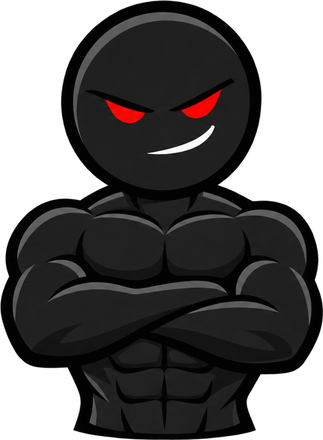
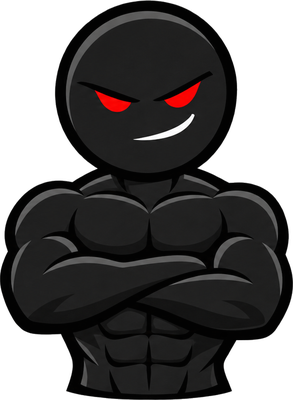
LIFT 1.5.5: shorter mascot card, remove faint box around the image
Claude-Session: https://claude.ai/code/session_013y13kYL9t9U9gpArUo5B3B

diff --git a/styles.css b/styles.css
@@ -709,3 +709,9 @@ button.row-card, .row-btn.row-card { padding: 13px 16px; }
 }
 .mascot-img { max-width: none; aspect-ratio: 320 / 440; flex: none; }
 .mascot-img { width: 128px; height: 176px; } .mascot { width: 128px; }
+
+/* shorter mascot, and no drop-shadow filter (it exposed the faint rectangle in the image) */
+.hero { min-height: 128px; padding-top: 12px; }
+.mascot-img { height: 132px; width: 96px; filter: none; }
+.mascot { width: 96px; }
+.hero-text { padding-bottom: 14px; }

diff --git a/sw.js b/sw.js
@@ -1,5 +1,5 @@
 // Offline app shell. Cache-first for the app's own files; never touches the network for anything else.
-const CACHE = 'gymlog-v1.5.4';
+const CACHE = 'gymlog-v1.5.5';
 const FILES = [
   './', 'index.html', 'styles.css', 'manifest.webmanifest',
   'app.js', 'art.js', 'calc.js', 'charts.js', 'backup.js', 'notes.js', 'crypto.js', 'db.js', 'nav.js', 'picker.js', 'store.js',

diff --git a/art.js b/art.js
@@ -117,7 +117,7 @@ export function mascotArt() {
     img.className = 'mascot-img mascot-' + mode;
     img.src = `img/mascot-${mode}.png`;
     img.alt = '';
-    img.width = 320; img.height = 440;
+    img.width = 240; img.height = 330;
     img.decoding = 'async';
     img.setAttribute('aria-hidden', 'true');
     wrap.append(img);

diff --git a/version.js b/version.js
@@ -1,1 +1,1 @@
-export const VERSION = '1.5.4';
+export const VERSION = '1.5.5';
